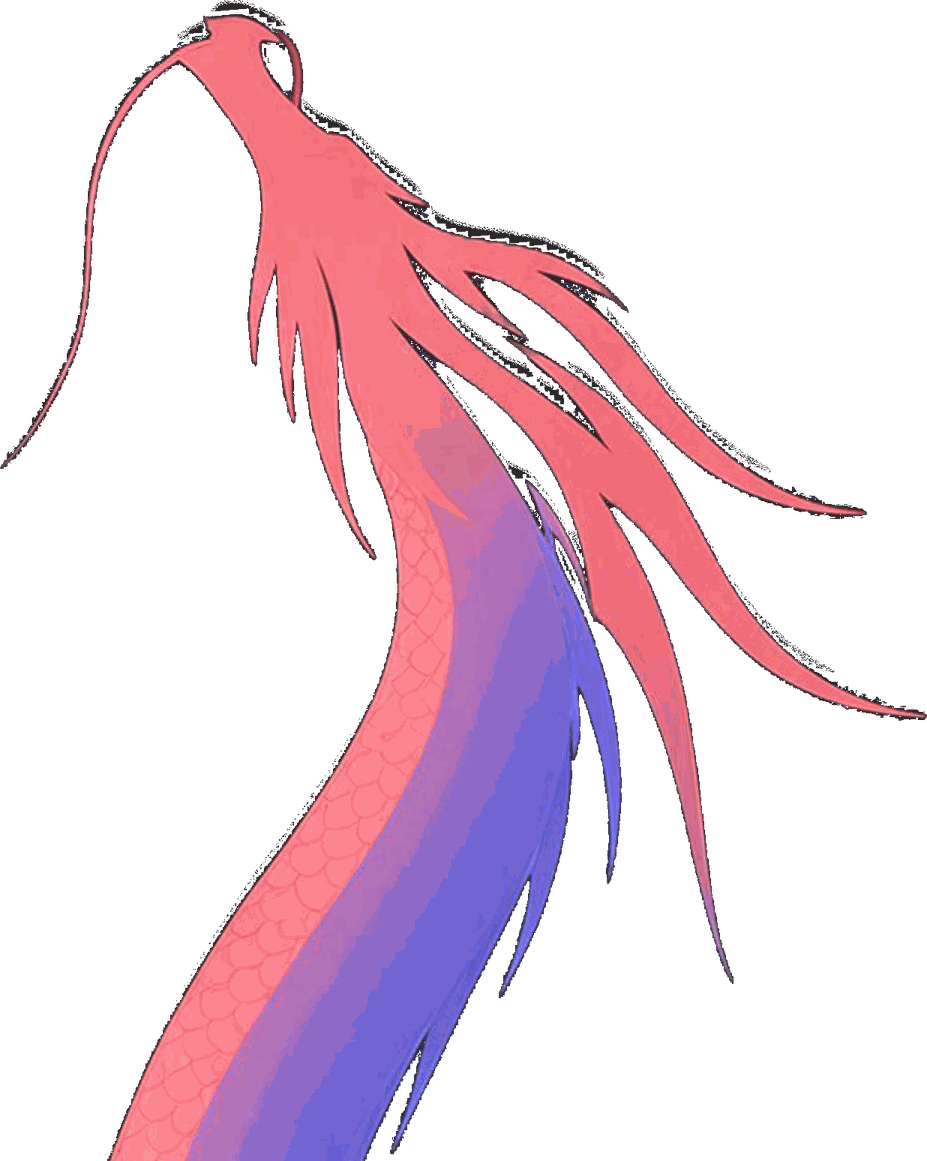
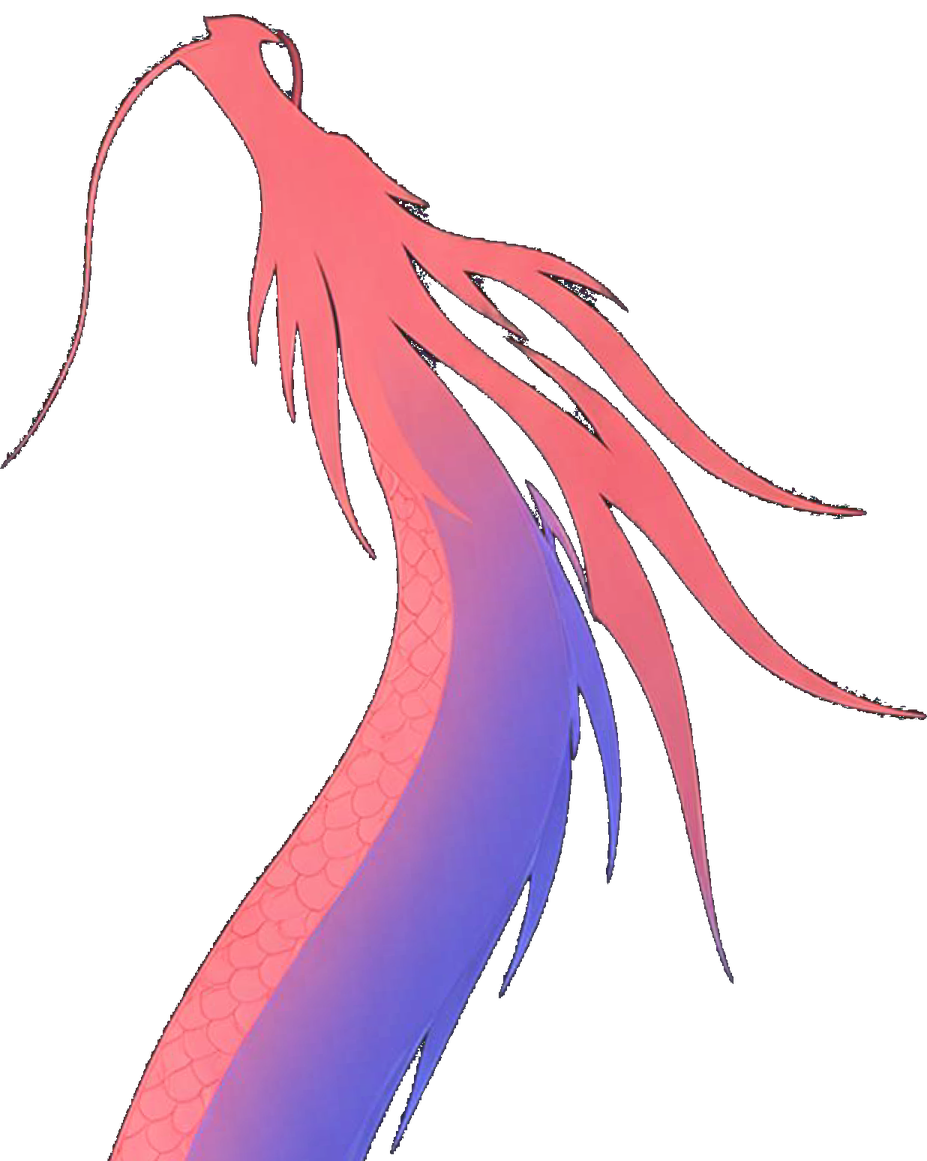
Title round 3: Safari-safe gradient on glyphs span, solid #7665CE asterisk, re-extracted dragon assets (crisp colors), mobile br dragon bottom-align fix

diff --git a/title/ipad.html b/title/ipad.html
@@ -23,7 +23,7 @@ body{background:var(--bg);color:#fff;font-family:var(--f);min-height:100vh;overf
 /* ---- драконы: портрет — углы из мобильного макета (2000×3600) ---- */
 .drg{position:absolute;pointer-events:none;user-select:none;z-index:0}
 .drg.tl.m{top:0;left:1.4vw;width:29.45vw}   /* canvas 28,0 – 617,672 */
-.drg.br.m{right:0;bottom:.55vw;width:28vw}   /* canvas 1440,2891 – 2000,3589 */
+.drg.br.m{right:0;bottom:0;width:28vw}   /* canvas 1440,2891 – 2000,3600: чернила до края холста */
 .drg.d{display:none}
 
 /* ---- центральная колонка ---- */
@@ -31,11 +31,14 @@ body{background:var(--bg);color:#fff;font-family:var(--f);min-height:100vh;overf
 
 /* ---- заголовок (портрет) ---- */
 h1{margin:18.6vh 0 0;font-family:var(--fcjk);font-weight:900;
-   font-size:14.78vw;line-height:1;letter-spacing:0;
-   background:linear-gradient(90deg,#FFAF4A 0%,#FFA859 10%,#FFA168 20%,#FE9976 30%,#FE9185 40%,#FD8994 50%,#DE80A2 60%,#BE78B0 70%,#9A6EBF 80%,#7965CD 90%,#6B62D4 100%);
-   -webkit-background-clip:text;background-clip:text;color:transparent;-webkit-text-fill-color:transparent}
+   font-size:14.78vw;line-height:1;letter-spacing:0;color:#FD8994}
 h1 .ast{position:absolute;left:100%;top:-.15em;margin-left:.084em;font-size:.37em;line-height:1;color:#7665CE;-webkit-text-fill-color:#7665CE}
 .tw{position:relative;display:inline-block}
+/* градиент на элементе с прямыми глифами — иначе в Safari заголовок прозрачный */
+@supports ((background-clip:text) or (-webkit-background-clip:text)){
+ .tw{background:linear-gradient(90deg,#FFAF4A 0%,#FFA859 10%,#FFA168 20%,#FE9976 30%,#FE9185 40%,#FD8994 50%,#DE80A2 60%,#BE78B0 70%,#9A6EBF 80%,#7965CD 90%,#6B62D4 100%);
+     -webkit-background-clip:text;background-clip:text;color:transparent;-webkit-text-fill-color:transparent}
+}
 .sub{margin:2.05vh 0 0;padding-left:.13em;font-weight:800;font-size:3.24vw;line-height:1.4;letter-spacing:.13em}
 
 /* ---- ссылки-кнопки (портрет) ---- */
@@ -80,7 +83,7 @@ h1 .ast{position:absolute;left:100%;top:-.15em;margin-left:.084em;font-size:.37e
   .drg.tl.d{top:0;left:3.19vw;width:19.88vw}
   .drg.br.d{right:.80vw;bottom:0;width:21.46vw}
   h1{margin-top:12.8vh;font-size:7.42vw}
-  h1 .ast{position:static;font-size:.45em;vertical-align:super;margin-left:0;color:transparent;-webkit-text-fill-color:transparent}
+  h1 .ast{position:static;font-size:.45em;vertical-align:super;margin-left:0;color:#7665CE;-webkit-text-fill-color:#7665CE}
   .sub{margin-top:1.9vh;padding-left:0;font-size:2.45vw;letter-spacing:.09em}
   .nav{margin-top:8.4vh;gap:2.17vh}
   .btn{font-size:4.25vw;border-radius:.3em}

diff --git a/title/mobile.html b/title/mobile.html
@@ -23,18 +23,22 @@ body{background:var(--bg);color:#fff;font-family:var(--f);min-height:100vh;overf
 /* ---- драконы (макет 2000×3600) ---- */
 .drg{position:absolute;pointer-events:none;user-select:none;z-index:0}
 .drg.tl{top:0;left:1.4vw;width:29.45vw}   /* canvas 28,0 – 617,672 */
-.drg.br{right:0;bottom:.55vw;width:28vw}   /* canvas 1440,2891 – 2000,3589 */
+.drg.br{right:0;bottom:0;width:28vw}   /* canvas 1440,2891 – 2000,3600: чернила до края холста */
 
 /* ---- центральная колонка ---- */
 .inner{position:relative;z-index:1;width:100%;display:flex;flex-direction:column;align-items:center;text-align:center}
 
 /* ---- заголовок ---- */
 h1{margin:23.2vh 0 0;font-family:var(--fcjk);font-weight:900;
-   font-size:16.25vw;line-height:1;letter-spacing:0;
-   background:linear-gradient(90deg,#FFAF4A 0%,#FFA859 10%,#FFA168 20%,#FE9976 30%,#FE9185 40%,#FD8994 50%,#DE80A2 60%,#BE78B0 70%,#9A6EBF 80%,#7965CD 90%,#6B62D4 100%);
-   -webkit-background-clip:text;background-clip:text;color:transparent;-webkit-text-fill-color:transparent}
+   font-size:16.25vw;line-height:1;letter-spacing:0;color:#FD8994}
 h1 .ast{position:absolute;left:100%;top:-.15em;margin-left:.084em;font-size:.37em;line-height:1;color:#7665CE;-webkit-text-fill-color:#7665CE}
 .tw{position:relative;display:inline-block}
+/* градиент — на элементе, напрямую содержащем глифы (WebKit не клал clip на вложенный inline-block):
+   без этого в Safari заголовок был полностью прозрачным */
+@supports ((background-clip:text) or (-webkit-background-clip:text)){
+ .tw{background:linear-gradient(90deg,#FFAF4A 0%,#FFA859 10%,#FFA168 20%,#FE9976 30%,#FE9185 40%,#FD8994 50%,#DE80A2 60%,#BE78B0 70%,#9A6EBF 80%,#7965CD 90%,#6B62D4 100%);
+     -webkit-background-clip:text;background-clip:text;color:transparent;-webkit-text-fill-color:transparent}
+}
 .sub{margin:2.1vh 0 0;padding-left:.13em;font-weight:800;font-size:3.76vw;line-height:1.4;letter-spacing:.13em}
 
 /* ---- ссылки-кнопки ---- */

diff --git a/title/index.html b/title/index.html
@@ -31,10 +31,14 @@ body{background:var(--bg);color:#fff;font-family:var(--f);min-height:100vh;overf
 
 /* ---- заголовок ---- */
 h1{margin:12.8vh 0 0;font-family:var(--fcjk);font-weight:900;
-   font-size:7.42vw;line-height:1;letter-spacing:0;
-   background:linear-gradient(90deg,#FFAF4A 0%,#FFA859 10%,#FFA168 20%,#FE9976 30%,#FE9185 40%,#FD8994 50%,#DE80A2 60%,#BE78B0 70%,#9A6EBF 80%,#7965CD 90%,#6B62D4 100%);
-   -webkit-background-clip:text;background-clip:text;color:transparent;-webkit-text-fill-color:transparent}
-h1 .ast{font-size:.45em;vertical-align:super}
+   font-size:7.42vw;line-height:1;letter-spacing:0;color:#FD8994}
+h1 .ast{font-size:.45em;vertical-align:super;color:#7665CE;-webkit-text-fill-color:#7665CE}
+.tw{position:relative;display:inline-block}
+/* градиент на элементе с прямыми глифами — иначе в Safari заголовок прозрачный */
+@supports ((background-clip:text) or (-webkit-background-clip:text)){
+ .tw{background:linear-gradient(90deg,#FFAF4A 0%,#FFA859 10%,#FFA168 20%,#FE9976 30%,#FE9185 40%,#FD8994 50%,#DE80A2 60%,#BE78B0 70%,#9A6EBF 80%,#7965CD 90%,#6B62D4 100%);
+     -webkit-background-clip:text;background-clip:text;color:transparent;-webkit-text-fill-color:transparent}
+}
 .sub{margin:1.9vh 0 0;font-weight:800;font-size:2.45vw;line-height:1.35;letter-spacing:.09em}
 
 /* ---- ссылки-кнопки ---- */
@@ -75,7 +79,7 @@ h1 .ast{font-size:.45em;vertical-align:super}
   <img class="drg br" src="assets/dragon-br-desktop.png" alt="" aria-hidden="true">
 
   <div class="inner">
-    <h1>数据看板<span class="ast">*</span></h1>
+    <h1><span class="tw">数据看板</span><span class="ast">*</span></h1>
     <p class="sub">*Медико-маркетинговый дашборд</p>
 
     <nav class="nav" aria-label="Дашборды препаратов">
